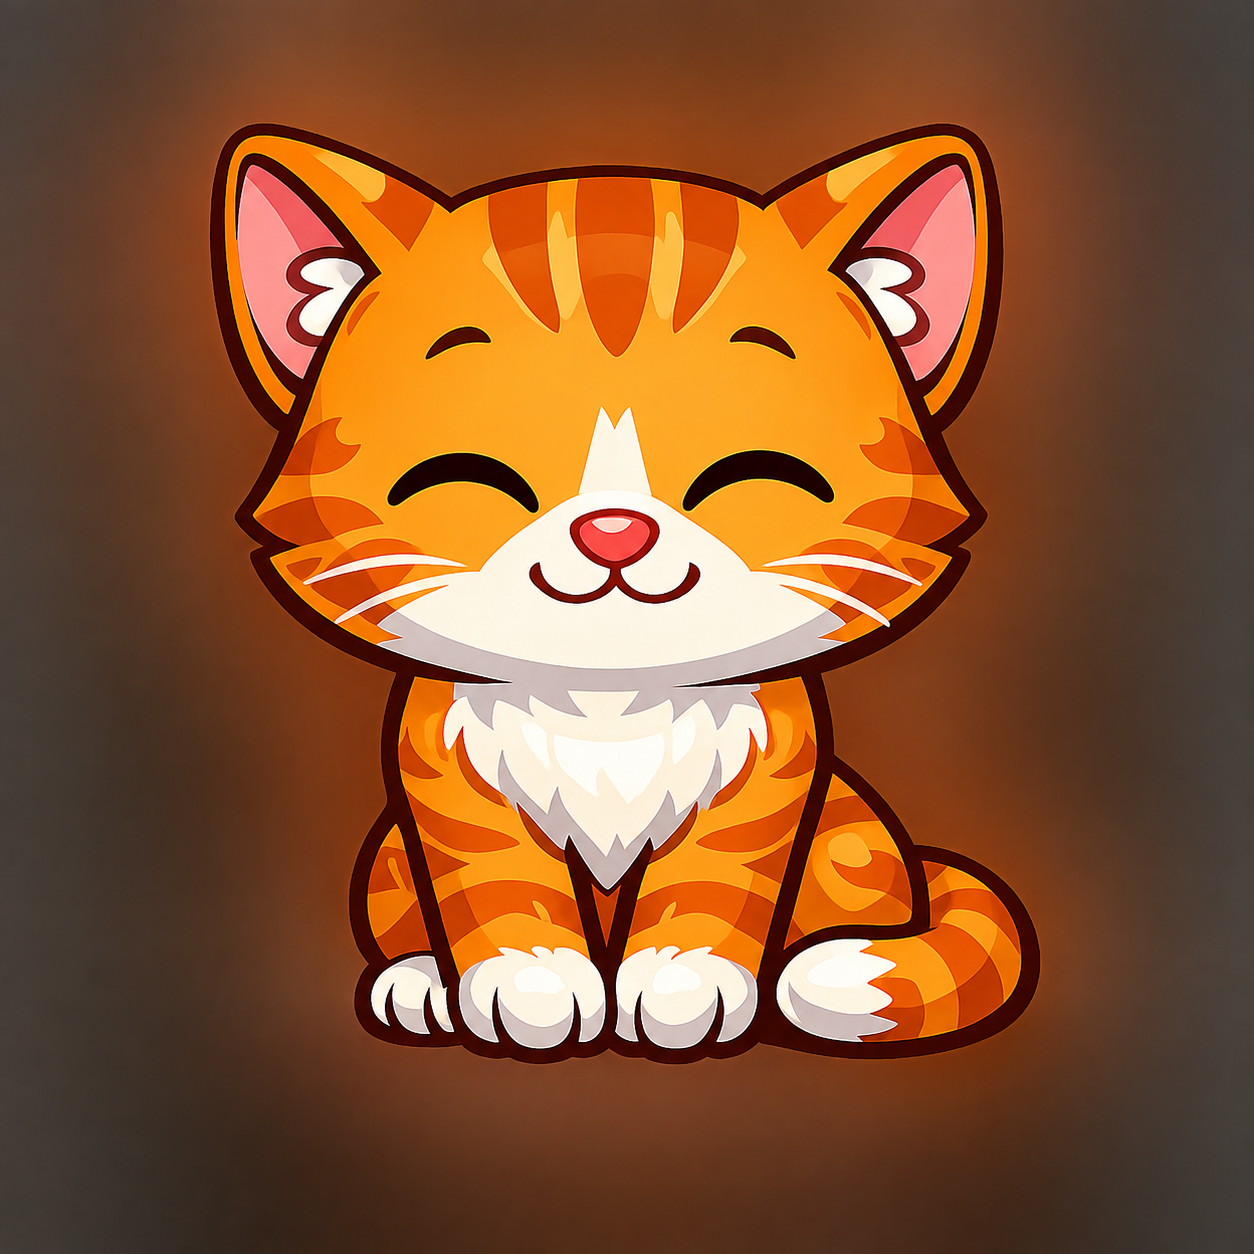
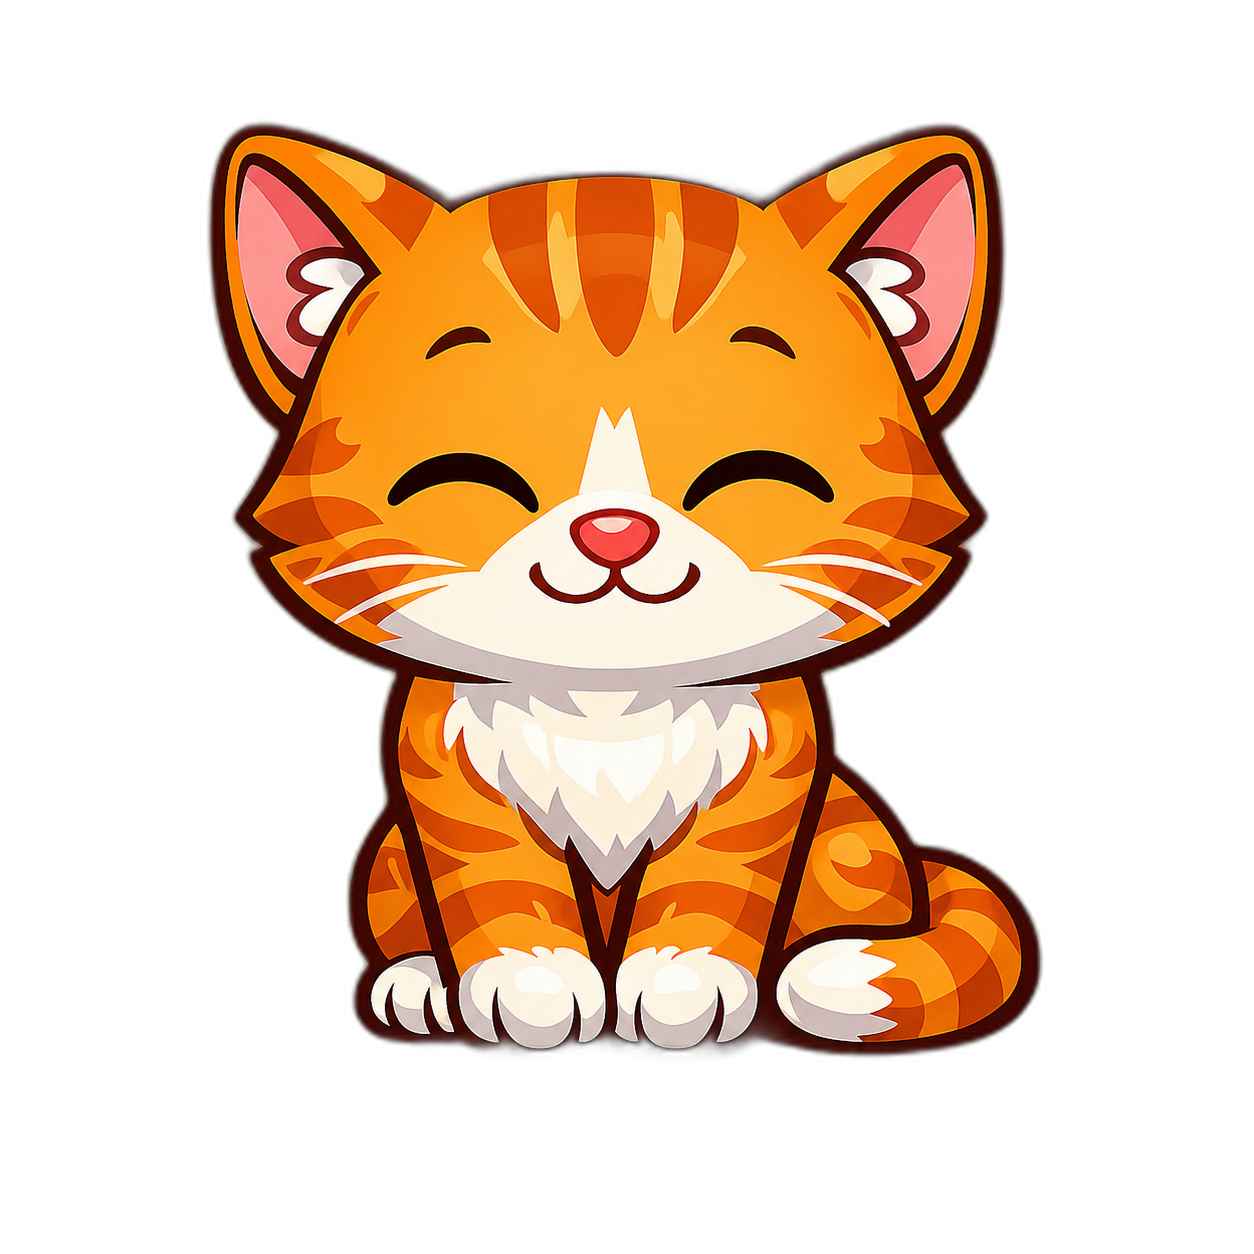
Wire up real cat blinking via a swapped alternate frame
cat-idle-blink.png background-removed and verified to align almost
exactly with cat-idle.png (bounding box comparison: center/scale within
~1% of each other), so swapping between them reads as a real blink
rather than a jump. Cycles automatically every ~3.2-5s while the cat is
in the idle pose, hard swap (no crossfade) since real blinks are too
fast for a fade to read correctly.

cat-idle-earsback.png is NOT wired up: it came back with eyes closed
(wasn't asked for — the ear edit changed more than intended) and its
bounding box drifted noticeably from idle (whole pose shifted/shrank,
not just the ears), so cycling to it would look like a visible jump
rather than a subtle twitch. Left in the repo unused; needs a tighter
regeneration if we want to pursue the ear-twitch effect.

Claude-Session: https://claude.ai/code/session_01Cfa6ja9BvSe8uCWMWgT81z

diff --git a/apps/mobile/src/components/StudyPet.tsx b/apps/mobile/src/components/StudyPet.tsx
@@ -52,6 +52,16 @@ const IMAGES: Record<PetSpecies, Record<Pose, ImageSourcePropType>> = {
   },
 };
 
+// Alternate single-frame "blinks" — swapped in briefly and reverted, rather
+// than crossfaded, since blinks are fast in real life. Sparse on purpose:
+// only add an entry once a frame has been verified to align with its base
+// pose (matching crop/scale), or the swap reads as a jump instead of a blink.
+const BLINK_FRAMES: Partial<Record<PetSpecies, Partial<Record<Pose, ImageSourcePropType>>>> = {
+  cat: {
+    idle: require("../../assets/pet/cat-idle-blink.png"),
+  },
+};
+
 function resolvePose(energy: Energy, activeAction: PetAction | null | undefined): Pose {
   if (activeAction === "eating") return "eating";
   if (activeAction === "playing") return "playing";
@@ -73,8 +83,10 @@ export function StudyPet({ species, energy, growthStage, size = 220, activeActio
   const emojiFloat = useSharedValue(0);
   const zFloat = useSharedValue(0);
   const [activeEmoji, setActiveEmoji] = useState<string | null>(null);
+  const [blinking, setBlinking] = useState(false);
 
   const pose = resolvePose(energy, activeAction);
+  const blinkFrame = BLINK_FRAMES[species]?.[pose];
 
   // Idle breathing, skipped while a reaction is actively playing.
   useEffect(() => {
@@ -109,6 +121,25 @@ export function StudyPet({ species, energy, growthStage, size = 220, activeActio
     poseOpacity.value = withTiming(1, { duration: 220 });
     // eslint-disable-next-line react-hooks/exhaustive-deps
   }, [pose]);
+
+  // Real blinks: swap to the alternate frame for ~160ms, no crossfade — a
+  // blink is fast in life, fading it would just look like a glitch.
+  useEffect(() => {
+    if (!blinkFrame || activeAction) return;
+    let blinkTimeout: ReturnType<typeof setTimeout>;
+    const interval = setInterval(
+      () => {
+        setBlinking(true);
+        blinkTimeout = setTimeout(() => setBlinking(false), 160);
+      },
+      3200 + Math.random() * 1800,
+    );
+    return () => {
+      clearInterval(interval);
+      clearTimeout(blinkTimeout);
+      setBlinking(false);
+    };
+  }, [blinkFrame, activeAction]);
 
   useEffect(() => {
     if (!activeAction) return;
@@ -180,7 +211,11 @@ export function StudyPet({ species, energy, growthStage, size = 220, activeActio
         </Animated.View>
       )}
       <Animated.View style={bodyStyle}>
-        <Image source={IMAGES[species][pose]} style={{ width: size, height: size }} resizeMode="contain" />
+        <Image
+          source={blinking && blinkFrame ? blinkFrame : IMAGES[species][pose]}
+          style={{ width: size, height: size }}
+          resizeMode="contain"
+        />
       </Animated.View>
     </Pressable>
   );
